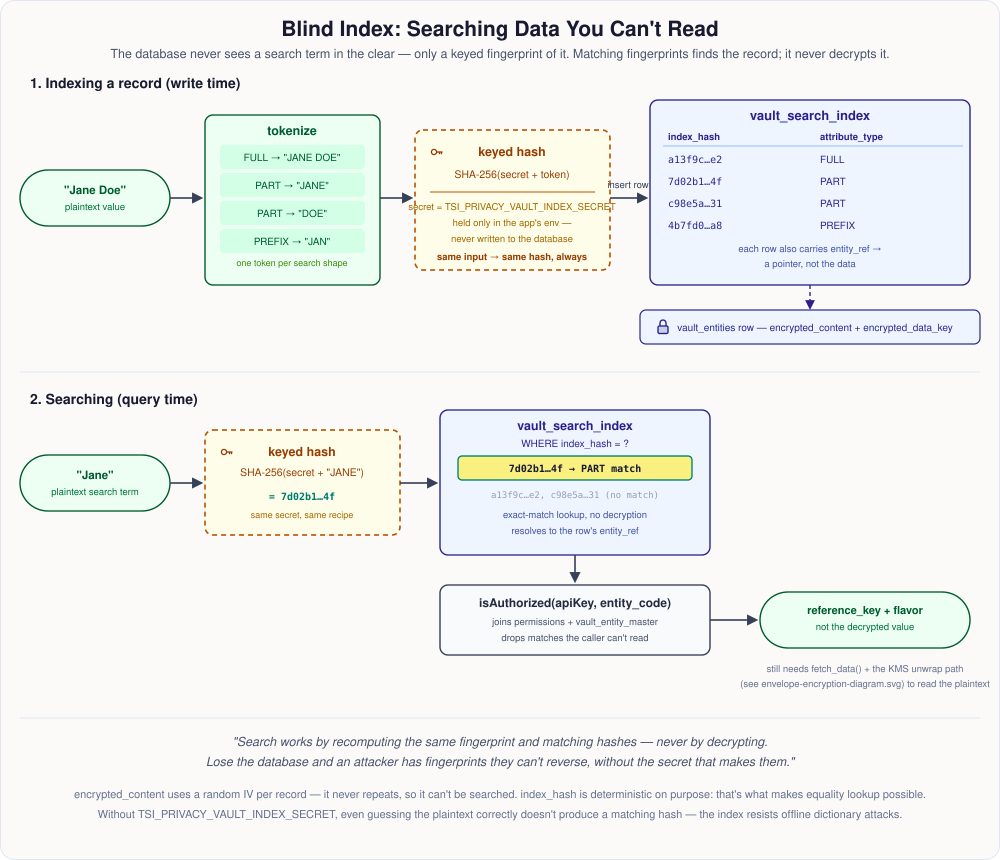
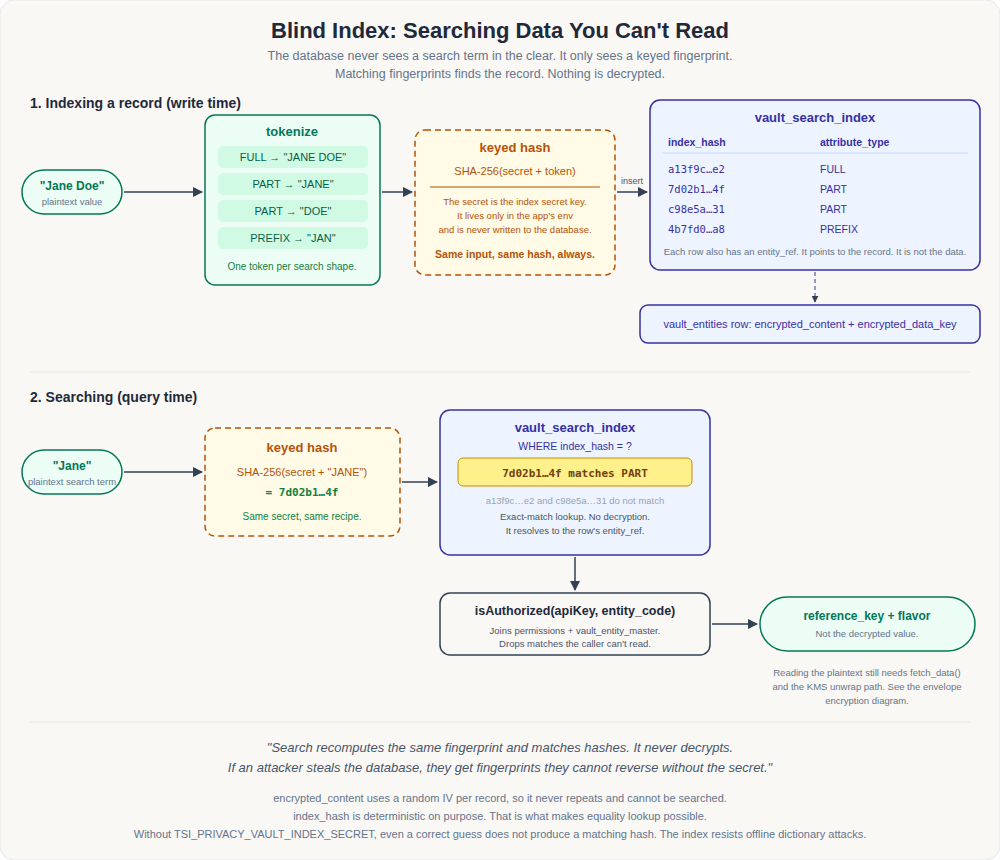
v0.2.1

diff --git a/docs/architecture.md b/docs/architecture.md
@@ -159,8 +159,9 @@ knows which anchor is in use. It talks only to `KmsProvider`.
 |---|---|---|---|
 | `LOCAL` | Shipped (default) | `TSI_PRIVACY_VAULT_MASTER_KEY`, SHA-256 normalized to 32 bytes, held in process memory | Evaluation, on-prem and air-gapped deployments |
 | `AWS_KMS` | Shipped in v0.2.0 | AWS KMS Customer Managed Key, never leaves AWS | Production deployments wanting cloud HSM custody, rotation and CloudTrail |
-| `GCP_KMS`, `AZURE_KV` | Planned | Cloud KMS CryptoKey, Key Vault key | Multi-cloud parity |
-| `SHAMIR` | Planned | K-of-N custodian shares | Sovereign, no-single-person-unlock deployments |
+| `GCP_KMS`, `AZURE_KV` | Planned, on demand (Cloud track) | Cloud KMS CryptoKey, Key Vault key | Multi-cloud parity |
+| `SHAMIR` | Planned (Sovereign track) | K-of-N custodian shares | Air-gapped, no-single-person-unlock deployments |
+| `PKCS11` | Candidate (Sovereign track) | Key in an on-prem HSM, accessed through PKCS#11 | Air-gapped deployments that require validated hardware |
 
 ### LOCAL vs AWS KMS
 
@@ -292,32 +293,36 @@ path.
 
 ## 7. Roadmap
 
-Key management evolves from a single local master key toward hardened root
-key anchors, in this priority order:
+The vault supports two deployment tracks. Both are supported today. They
+evolve independently, and the next phase extends each one.
 
-1. **AWS KMS** as the first production-grade cloud anchor.
-2. **Google Cloud KMS and Azure Key Vault** for multi-cloud parity.
-3. **Split key orchestration** using Shamir's Secret Sharing for fully
-   sovereign, no-single-person-unlock deployments.
+| Track | For | Shipped today | Next phase |
+|---|---|---|---|
+| **Sovereign** | On-prem and air-gapped environments, no public cloud | `LOCAL` anchor | `SHAMIR` split key (K-of-N custodians), `PKCS11` HSM if required |
+| **Cloud** | Deployments that want a managed, HSM-backed root key | `AWS_KMS` anchor | `GCP_KMS` and `AZURE_KV`, added on demand |
 
-By supporting several anchors, organizations keep local sovereign control
-while still being able to use the hardened infrastructure of major cloud
-providers.
+A deployment picks one track. Switching tracks later is an anchor migration,
+and only the small wrapped DEKs are re-wrapped.
 
 ### Status
 
-| Milestone | Contents | Status |
-|---|---|---|
-| M0 | Provider factory, fail-closed local key, key ring schema, AES-GCM, removal of the legacy KMS prototype | Shipped |
-| M1 | AWS KMS provider: env config, default credential chain, encryption context, health check, retries | Shipped (v0.2.0) |
-| M2 | `activate_key_anchor`, LOCAL to AWS re-wrap job, IAM docs, anchor status in the admin console | Shipped (v0.2.0) |
-| M3 | GCP KMS and Azure Key Vault providers, shared cloud provider base class, anchor migration runbook | Planned |
-| M4 | Shamir split and combine, `SealManager`, seal-aware filter | Planned |
-| M5 | Shamir key ceremony and unseal APIs and UI, custodian audit, rekey | Planned |
-| M6 | Hybrid cloud auto-unseal (stretch) | Planned, depends on M2 and M5 |
+| Milestone | Track | Contents | Status |
+|---|---|---|---|
+| M0 | Both | Provider factory, fail-closed local key, key ring schema, AES-GCM, removal of the legacy KMS prototype | Shipped |
+| M1 | Cloud | AWS KMS provider: env config, default credential chain, encryption context, health check, retries | Shipped (v0.2.0) |
+| M2 | Both | `activate_key_anchor`, LOCAL to AWS re-wrap job, IAM docs, anchor status in the admin console | Shipped (v0.2.0) |
+| M3 | Sovereign | Shamir split-key: split and combine, `SealManager`, seal-aware filter, key ceremony, unseal and seal APIs | Planned |
+| M4 | Cloud | GCP KMS or Azure Key Vault provider, shared cloud provider base class, anchor migration runbook | Planned, on demand |
 
-The cloud track (M3) takes priority. The Shamir track (M4 and M5) starts only
-after it ships, although technically it depends only on M0.
+The two next-phase items are independent. They can ship in either order.
+Build the cloud provider that a real user asks for first. The shared base class
+makes the second one small.
+
+Later additions, not scheduled:
+- Shamir admin UI, custodian audit and rekey.
+- `PKCS11` anchor (Sovereign track) for air-gapped deployments that require a
+  validated HSM. It is another provider behind `KmsProvider`, so the data
+  plane does not change.
 
 ### Design principles
 
@@ -334,9 +339,9 @@ after it ships, although technically it depends only on M0.
                  |                                            |
    Shipped  ->   |  LOCAL    : master key from environment    |
    Shipped  ->   |  AWS_KMS  : AWS KMS CMK                    |
-   Phase 2  ->   |  GCP_KMS  : Cloud KMS CryptoKey            |
-   Phase 2  ->   |  AZURE_KV : Key Vault / Managed HSM key    |
-   Phase 3  ->   |  SHAMIR   : K-of-N custodian shares        |
+   Next     ->   |  GCP_KMS  : Cloud KMS CryptoKey            |
+   Next     ->   |  AZURE_KV : Key Vault / Managed HSM key    |
+   Next     ->   |  SHAMIR   : K-of-N custodian shares        |
                  +---------------------+----------------------+
                                        | wraps (with key_version)
                                        v
@@ -362,9 +367,9 @@ Known follow-ups carried over from this work:
 - Keep `TSI_PRIVACY_VAULT_NODE_ID` stable. It is part of the KMS encryption
   context and the utility hardware anchor.
 
-### Phase 2: Google Cloud KMS and Azure Key Vault
+### Cloud track next: Google Cloud KMS and Azure Key Vault
 
-Both reuse the Phase 1 machinery: factory, key ring, re-wrap migration, health
+Both reuse the Phase 1 (AWS) machinery: factory, key ring, re-wrap migration, health
 checks and forensic logging. Shared concerns move into an
 `AbstractCloudKmsProvider` extracted from the AWS provider.
 
@@ -397,7 +402,7 @@ and fully sovereign.
 uses the same flow as section 4: activate a new key ring version, run the
 re-wrap job, retire the old version. No payload re-encryption is ever needed.
 
-### Phase 3: split key orchestration (Shamir's Secret Sharing)
+### Sovereign track next: split key orchestration (Shamir's Secret Sharing)
 
 For fully sovereign deployments where no cloud dependency is acceptable and no
 single individual or compromised server may unlock the vault alone.
@@ -469,13 +474,6 @@ submission, and a seal-state badge on the dashboard.
   configuration is N of at least 5 with K = 3, held by geographically separate
   custodians. The existing `break_glass_reset` covers admin passwords only.
 - Migration from any prior anchor uses the standard re-wrap flow.
-
-**Stretch: hybrid cloud auto-unseal.** The Shamir-protected VMK is also
-wrapped by a cloud KMS key and stored in the key ring. On startup the vault
-auto-unseals through cloud KMS. If that key is revoked or unreachable,
-custodians can still unseal manually with K shares. The cloud provider alone
-can never decrypt, because DEK unwrap happens locally. Configured with
-`TSI_PRIVACY_VAULT_AUTO_UNSEAL=AWS_KMS|GCP_KMS|AZURE_KV|NONE`.
 
 ### Testing expectations for remaining phases
 

diff --git a/README.md b/README.md
@@ -15,7 +15,7 @@ Just as a physical safe secures valuable assets, TSI Privacy Vault isolates pers
 
 The key benefits of the sovereign vault include reducing the breach surface, supporting DPDPA compliance by easily fulfilling erasure requests, and maintaining tamper-proof evidence for BSA Section 63.
 
-Currently, the vault supports a local security model and AWS Cloud Key Management Service for hosting the master keys. Our roadmap includes extending the current local security model from a single master key to a split-key architecture via Shamir secret sharing, and extending Cloud KMS support to Google Cloud and Azure Cloud.
+The vault supports two tracks. The Sovereign track uses a local master key and suits on-prem and air-gapped environments. The Cloud track uses AWS Key Management Service. Both are supported today. Next, the Sovereign track adds Shamir split keys, and the Cloud track adds Google Cloud KMS and Azure Key Vault on demand.
 
 ## Installation
 
